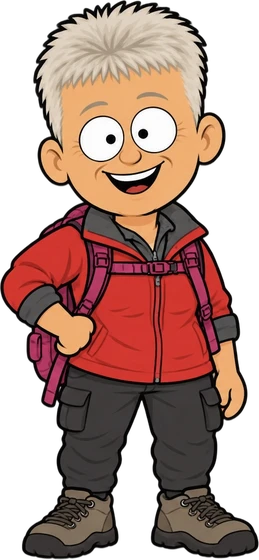
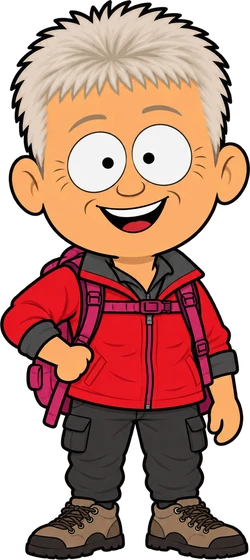
Nieuwe Coby, Gijsje en Tanja met grotere hoofden
Claude-Session: https://claude.ai/code/session_01SC28YP35H3kP7dQNjTgBUZ

diff --git a/index.html b/index.html
@@ -119,8 +119,8 @@ const $ = id => document.getElementById(id);
 const DECORS = ['01-outback-nacht','02-sydney','03-blue-mountains','04-outback-weg','05-touringcar-binnen','06-touringcar-nacht','07-cradle-mountain','08-wineglass-bay','09-bos-nacht','10-halls-gap','11-twelve-apostles','12-uluru'];
 const MATES = ['tanja','betty','ed','william','gijsje','adrie','nellie','dick','anne','john','coby','lut','dirk','geert','els','erik'];
 // per traveller: a size correction so heads look alike, and where the head sits in the picture [centre x, head height]
-const SIZE = {"robbert":0.992,"lisette":1.035,"gemma":0.938,"kees":0.938,"henk":1.035,"tanja":1.058,"betty":1.035,"ed":0.938,"william":0.973,"gijsje":1.035,"adrie":1.035,"nellie":0.992,"dick":1.034,"anne":0.921,"john":0.955,"coby":0.992,"lut":0.973,"dirk":0.992,"geert":1.013,"els":0.955,"erik":0.955};
-const HEADBOX = {"robbert":[132.8,233.3],"lisette":[117.4,214.7],"gemma":[151.9,261.3],"kees":[170.5,261.3],"henk":[126.6,214.7],"tanja":[138.7,205.3],"betty":[197.9,214.7],"ed":[184.5,261.3],"william":[156.7,242.7],"gijsje":[125.4,214.7],"adrie":[104.9,214.7],"nellie":[116.2,233.3],"dick":[171.7,214.7],"anne":[149.2,270.7],"john":[171.8,252.0],"coby":[181.5,233.3],"lut":[132.3,242.7],"dirk":[181.5,233.3],"geert":[111.2,224.0],"els":[181.1,252.0],"erik":[129.5,252.0],"chauffeuse-staand":[155.1,235.2]};
+const SIZE = {"robbert":0.992,"lisette":1.035,"gemma":0.938,"kees":0.938,"henk":1.035,"tanja":0.973,"betty":1.035,"ed":0.938,"william":0.973,"gijsje":0.973,"adrie":1.035,"nellie":0.992,"dick":1.034,"anne":0.921,"john":0.955,"coby":0.973,"lut":0.973,"dirk":0.992,"geert":1.013,"els":0.955,"erik":0.955};
+const HEADBOX = {"robbert":[132.8,233.3],"lisette":[117.4,214.7],"gemma":[151.9,261.3],"kees":[170.5,261.3],"henk":[126.6,214.7],"tanja":[134.6,242.7],"betty":[197.9,214.7],"ed":[184.5,261.3],"william":[156.7,242.7],"gijsje":[124.6,242.7],"adrie":[104.9,214.7],"nellie":[116.2,233.3],"dick":[171.7,214.7],"anne":[149.2,270.7],"john":[171.8,252.0],"coby":[180.0,242.7],"lut":[132.3,242.7],"dirk":[181.5,233.3],"geert":[111.2,224.0],"els":[181.1,252.0],"erik":[129.5,252.0],"chauffeuse-staand":[155.1,235.2]};
 // couples walk and appear together
 const UNITS = [['adrie','nellie'],['anne','john'],['betty'],['dick','coby'],['els','erik'],['geert','lucie'],['gemma'],['gijsje'],['henk'],['kees'],['lisette'],['lut','dirk'],['robbert'],['tanja'],['william','ed']];
 // every time the film loads, the scenes get a fresh mix of travellers; couples stay together and everyone takes turns
